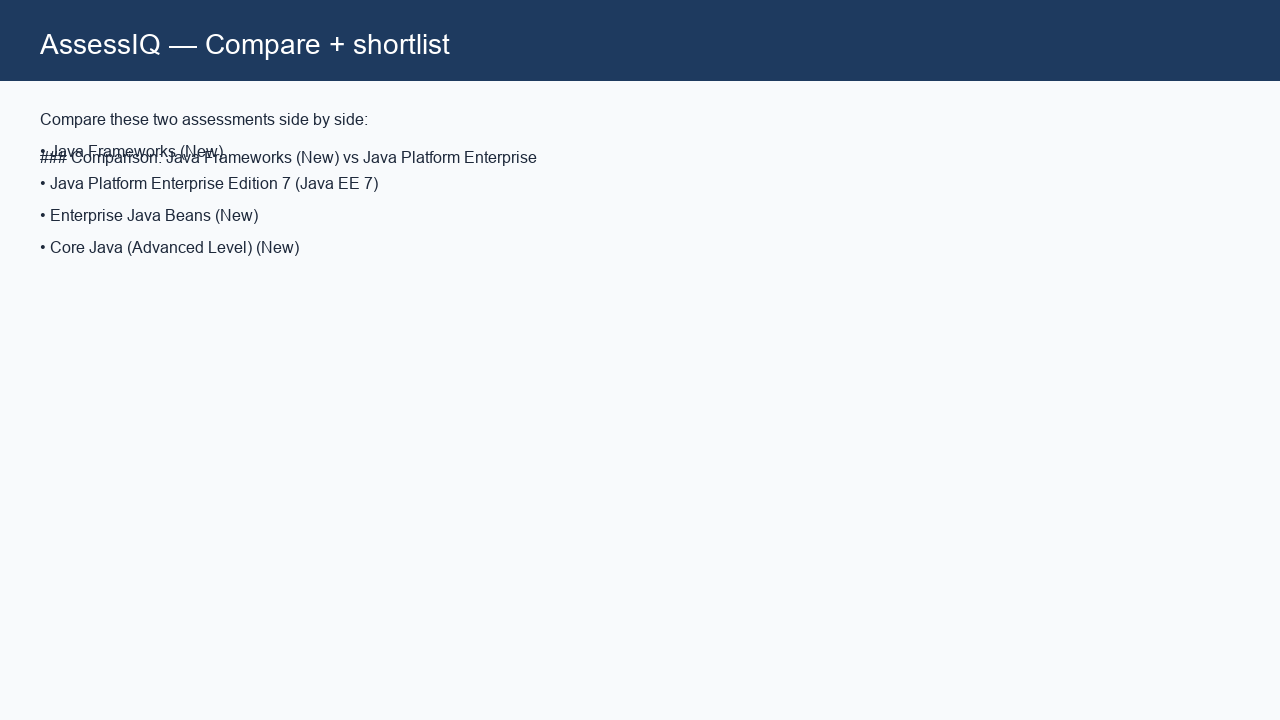
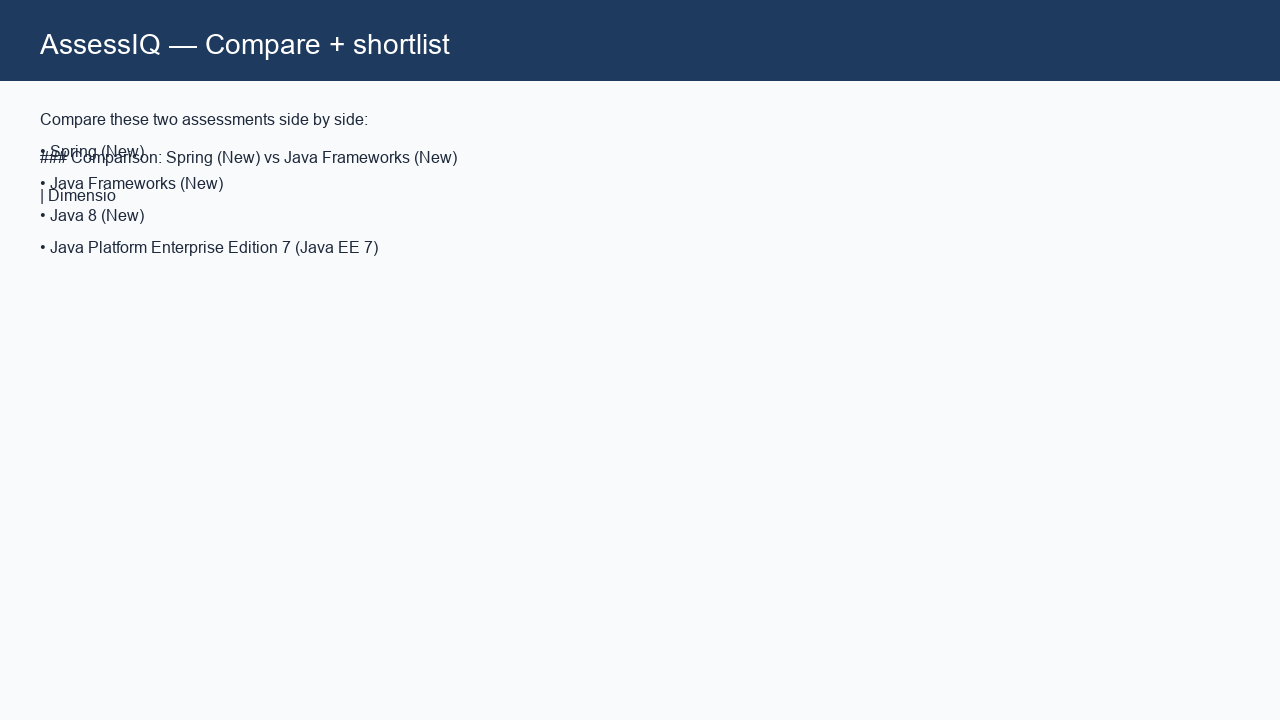
Polish submission docs and fix refinement add-to-front cap behavior.
Add APPROACH deploy section and example turns; update README with production gate results; prepend added assessments during refine so AWS/Docker survive the 7-item cap.

Changed region(s): [[0.0312, 0.1833, 0.4375, 0.3056], [0.0312, 0.3361, 0.2812, 0.3667]]

diff --git a/app/utils/message_history.py b/app/utils/message_history.py
@@ -283,7 +283,7 @@ def apply_refinement_to_recommendations(
                 text = (a.name + " " + a.description).lower()
                 if search_term in text or add_low in a.name.lower():
                     if a.name.lower() not in existing_names:
-                        result.append(_recommendation_from_assessment(a))
+                        result.insert(0, _recommendation_from_assessment(a))
                         existing_names.add(a.name.lower())
                         break
     return result[:10]

diff --git a/APPROACH.md b/APPROACH.md
@@ -40,6 +40,18 @@ Run `python scripts/run_c1_c10_recall.py` after starting the backend; report at 
 
 `GET /health` → `{"status":"ok"}`. Eight-turn cap; ~30s timeout budget.
 
+## Deployment
+
+- **API:** https://assessiq-nkp2.onrender.com
+- **Streamlit demo:** https://assessiq-ai.streamlit.app (set `BACKEND_URL` secret to the API URL)
+- **Render frontend:** optional `assessiq-frontend` service with the same `BACKEND_URL`
+
+## Example Conversation
+
+1. **Recommend:** "Java Spring Boot backend developer" → ranked Java/Spring K-tests plus Verify cognitive.
+2. **Compare:** "Compare the top two" → grounded comparison table in `reply`; prior shortlist stays in `recommendations`.
+3. **Refine:** "Add AWS" → AWS Development injected; "Drop the OPQ" → personality cards removed from shortlist.
+
 ## What Did Not Work Initially
 
 - Substring Java/JavaScript false positives → word-boundary matching.

diff --git a/artifacts/submission_readiness_report.md b/artifacts/submission_readiness_report.md
@@ -1,7 +1,7 @@
 # Submission Readiness Report
 
-**Generated:** 2026-07-01T19:38:08.250522+00:00
-**Backend:** `http://127.0.0.1:8000`
+**Generated:** 2026-07-01T19:50:29.260929+00:00
+**Backend:** `https://assessiq-nkp2.onrender.com`
 **Production:** `https://assessiq-nkp2.onrender.com`
 **Verdict:** **READY TO SUBMIT**
 
@@ -11,7 +11,7 @@
 |------|------|-------|
 | Local /health | YES | {"status":"ok"} |
 | pytest | YES |  None, but tests/test_integration.py::test_simple_chat returned True, which will be an error in a future version of pyte |
-| eval_suite | YES |  out of 15 cases  CASE: Malformed request handling PASS (0.02s)  Summary: 15 passed, 0 failed out of 15 cases  ========= |
+| eval_suite | YES |  out of 15 cases  CASE: Malformed request handling PASS (1.59s)  Summary: 15 passed, 0 failed out of 15 cases  ========= |
 | acceptance | YES | pring boot from typo query) Executing Scenario 41... Scenario 41: FAIL (No recommendations generated) Executing Scenario |
 | comprehensive_54 | YES | RY ================================================================================ Total: 54 / Passed: 54 / Failed: 0 S |
 | ui_30 | YES | rds) [PASS] 24 Data scientist baseline (7 cards) [PASS] 25 DevOps baseline (7 cards) [PASS] 26 QA automation baseline (3 |

diff --git a/README.md b/README.md
@@ -76,7 +76,7 @@ Run the full submission gate (local backend must be running ~45s for FAISS cold 
 python scripts/run_submission_readiness.py
 ```
 
-**Latest gate results** (`artifacts/submission_readiness_report.md`): **READY TO SUBMIT**
+**Latest gate results** (`artifacts/submission_readiness_report.md`): **READY TO SUBMIT** (production verified 2026-07-01)
 
 | Gate | Result |
 |------|--------|
@@ -147,6 +147,8 @@ APPROACH.md    Design document (submission)
 | Frontend | Streamlit Cloud | assessiq-ai.streamlit.app |
 
 Streamlit secret: `BACKEND_URL=https://assessiq-nkp2.onrender.com`
+
+**Streamlit Cloud:** In [share.streamlit.io](https://share.streamlit.io) → App settings → Secrets, set `BACKEND_URL = "https://assessiq-nkp2.onrender.com"` and reboot the app after each backend deploy.
 
 ---
 